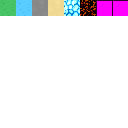
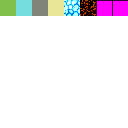
Updated Map rendering and smoother camera

Changed region(s): [[0.0, 0.0, 0.25, 0.125]]

diff --git a/game/map/World.py b/game/map/World.py
@@ -1,51 +1,51 @@
 #TODO: convert tmx file to world object
 
 import pygame
+import math
 from pytmx.util_pygame import load_pygame
 
 class World:
-    size = [32,32]
+    size = [64,64]
     def __init__(self,surface,file):
         self.surface = surface
         self.mapData = load_pygame(file)
+        self.scale = pygame.transform.scale
 
-        self.screenSize = [self.surface.get_width() // World.size[0],self.surface.get_height() // World.size[1]]
-        self.camera = [0,0]
-
-
-    def render(self):
+    def render(self,camera):
         # Gets the tiles based on camera location and blits to game.surface
-        xRange = (self.camera[0],self.camera[0] + self.screenSize[0] + 1)
-        yRange = (self.camera[1],self.camera[1] + self.screenSize[1] + 1)
-
-        for y in range(yRange[0],yRange[1]):
-            for x in range(xRange[0],xRange[1]):
+        offset = camera.getView()
+        for y in range(math.ceil((offset[1] + self.surface.get_height() + 64) / World.size[1])):
+            for x in range(math.ceil((offset[0] + self.surface.get_width() + 64) / World.size[0])):
                 try:
                     image = self.mapData.get_tile_image(x,y,0)
-                    image = pygame.transform.scale(image,World.size)
+                    image = self.scale(image,World.size)
                 except:
-                    break
-                drawX = (x - self.camera[0])
-                drawY = (y - self.camera[1])
-                self.surface.blit(image, (drawX * World.size[0],drawY * World.size[1]))
+                    continue
+                px = x * World.size[0]  - offset[0]
+                py = y * World.size[1] - offset[1]
+                self.surface.blit(image,(px,py))
 
+    def getMap(self):
+        return self.mapData
 
-    def getCamera(self):
+class Camera:
+
+    def __init__(self):
+        self.offset = [128,128]
+
+    def isVisible(self,position):
+        """
+        checks if a pygame.Rect() object is in the self.view
+        :param rect: pygame.Rect()
+        :return: bool
+        """
+        return (abs(position[0] - self.offset[0]) >= 0 and abs(position[1] - self.offset[1]) >= 0)
+
+    def getView(self):
         # returns the camera position
-        return self.camera
+        return (int(self.offset[0]), int(self.offset[1]))
 
     def moveCamera(self,x=0,y=0):
         # moves the camera by x and y
         # -x,y are integers
-
-        self.camera = [(self.camera[0] + x),(self.camera[1] + y)]
-
-        if self.camera[0] >= self.mapData.width - self.screenSize[0] + 1:
-            self.camera[0] = self.mapData.width - self.screenSize[0]
-        elif self.camera[0] <= 0:
-            self.camera[0] = 0
-
-        if self.camera[1] >= self.mapData.height - self.screenSize[1]:
-            self.camera[1] = self.mapData.height - self.screenSize[1]
-        elif self.camera[1] <= 0:
-            self.camera[1] = 0
+        self.offset = [self.offset[0] + x, self.offset[1] + y]

diff --git a/game/mob/player.py b/game/mob/player.py
@@ -1,0 +1,39 @@
+import pygame
+
+class Player(pygame.sprite.Sprite):
+    #TODO: Create a player and place it on the map
+    def __init__(self,surface,position):
+        pygame.sprite.Sprite.__init__(self)
+
+        self.surface = surface
+        self.image = pygame.Surface([64,128])
+        self.image.fill(pygame.Color('purple'))
+        self.rect = self.image.get_rect()
+        self.rect.center = position
+
+        self.stats = Player.PlayerStats()
+
+    def update(self):
+        pass
+
+    def getStats(self):
+        return self.stats
+
+    def getRect(self):
+        return self.rect
+
+    def getPosition(self):
+        return self.rect.topleft
+
+    def render(self,camera):
+        offset = camera.getView()
+        self.surface.blit(self.image,(self.getPosition()[0] - offset[0],self.getPosition()[1] - offset[1]))
+
+    class PlayerStats:
+        initHP = 100
+        def __init__(self):
+            self.maxHP = Player.PlayerStats.initHP
+            self.hp = self.maxHP
+
+        def damage(self,value):
+            self.hp -= value

diff --git a/game/__init__.py b/game/__init__.py
@@ -2,7 +2,7 @@ import pygame
 from Game import Game
 
 def create_window():
-    SIZE = (1280,720)
+    SIZE = (900,600)
     pygame.init()
     screen = pygame.display.set_mode(SIZE)
     pygame.display.set_caption('LOTA ALPHA')

diff --git a/game/graphics/Sprite.py b/game/graphics/Sprite.py
@@ -28,3 +28,6 @@ class Sprite(pg.sprite.Sprite):
 
     def update(self):
         pass
+
+class Assets:
+    pass
